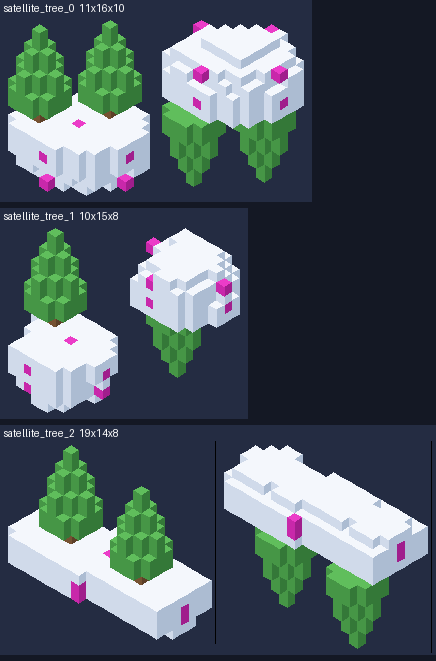
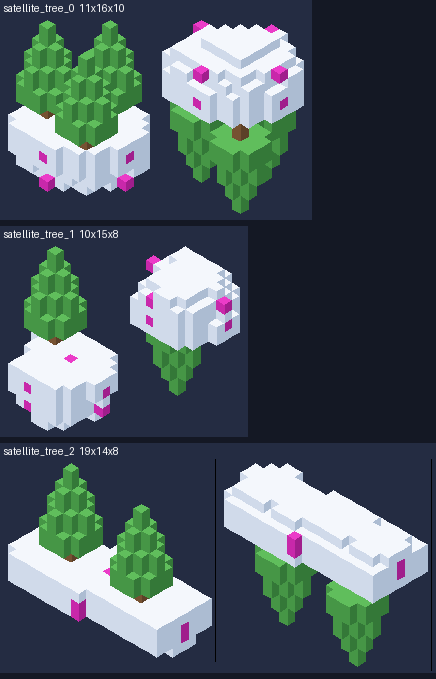
Plant sky trees on more flat cloud surfaces
Add treed filler slabs (the flat cloud in the gaps between paths) to the
filler pool alongside the plain ones, so a plain slab is placed where there
isn't headroom, and plant as many trees as fit on each treed filler and
side-attached satellite instead of a fixed one or two.

diff --git a/tools/build_clouds.py b/tools/build_clouds.py
@@ -610,8 +610,10 @@ def build_pad(short, variant, seed, mask, anchor, sx, sz, water_cols=()):
 # fillers: organic slabs that close the gaps between paths
 # ---------------------------------------------------------------------------
 
-def build_filler(variant, seed, w, d, h):
-    """Gap-filler slab: lobed oval outline, rounded bushy bottom.
+def build_filler(variant, seed, w, d, h, trees=0, prefix="filler"):
+    """Gap-filler slab: lobed oval outline, rounded bushy bottom. trees > 0 plants
+    that many sky trees on its flat top (drawn from the same pool as the plain
+    fillers, so where there's no headroom a plain slab is placed instead).
     The connector jigsaws sit one layer BELOW the top: they align with the pad
     side sockets (one under the piece floor), so the filler's flat top rises
     level with the road surface and paths/buildings read as cutting through a
@@ -672,8 +674,13 @@ def build_filler(variant, seed, w, d, h):
         bpd[str(flat_index(x, joint, z, h, d))] = jigsaw_entity(
             FILLER_NAME, "minecraft:empty", "minecraft:empty",
             CLOUD_BLOCK, x, joint, z)
-    root = make_structure(w, h, d, cells, cloud_palette(VERSION_FROM_PIECE), bpd)
-    save(os.path.join(CLOUD_DIR, f"filler_{variant}.mcstructure"), root, "")
+    H = h
+    if trees:
+        if plant_trees(cells, solid[:, top, :].copy(), None, h, rnd, trees) == 0:
+            raise ValueError(f"{prefix}_{variant}: no flat spot for a tree")
+        bpd, H = rekey_bpd(bpd, h, d, h + TREE_HEIGHT), h + TREE_HEIGHT
+    root = make_structure(w, H, d, cells, cloud_palette(VERSION_FROM_PIECE), bpd)
+    save(os.path.join(CLOUD_DIR, f"{prefix}_{variant}.mcstructure"), root, "")
 
 
 # ---------------------------------------------------------------------------
@@ -913,38 +920,43 @@ def build_satellite(variant, seed, kind, w, h, d, trees=0, prefix="satellite"):
     if trees and planted == 0:
         raise ValueError(f"{prefix}_{variant}: no flat spot for a tree")
     if planted:
-        # re-key jigsaw entities for the taller bounding box
-        new_h = h + TREE_HEIGHT
-        rekeyed = {}
-        for key, ent in bpd.items():
-            f = int(key)
-            x, y, z = f // (h * d), (f // d) % h, f % d
-            rekeyed[str(flat_index(x, y, z, new_h, d))] = ent
-        bpd, h = rekeyed, new_h
+        bpd, h = rekey_bpd(bpd, h, d, h + TREE_HEIGHT), h + TREE_HEIGHT
         dims = (w, h, d)
     root = make_structure(w, h, d, cells, cloud_palette(VERSION_FROM_PIECE), bpd)
     save(os.path.join(CLOUD_DIR, f"{prefix}_{variant}.mcstructure"), root, "")
     return dims
 
 
+def rekey_bpd(bpd, h, d, new_h):
+    """Jigsaw entities are keyed by flat index, which depends on the template
+    height; re-key them after a tree makes the bounding box taller."""
+    out = {}
+    for key, ent in bpd.items():
+        f = int(key)
+        x, y, z = f // (h * d), (f // d) % h, f % d
+        out[str(flat_index(x, y, z, new_h, d))] = ent
+    return out
+
+
 def plant_trees(cells, top_solid, conn, top_layer_h, rnd, count):
-    """Plant up to `count` sky trees on the satellite's top surface. A trunk
-    needs a mostly flat 3x3 patch of cloud and room for the 5-wide canopy, and
-    keeps clear of the up connector and of other trunks. Returns trees planted."""
+    """Plant up to `count` sky trees on a cloud's flat top surface, as many as fit.
+    A trunk needs a mostly flat 3x3 patch of cloud and room for the 5-wide
+    canopy inside the template, and keeps clear of the up connector (if any) and
+    of other trunks. Returns trees planted."""
     w, d = top_solid.shape
     top = top_layer_h - 1
     cands = []
     for x in range(2, w - 2):
         for z in range(2, d - 2):
             patch = top_solid[x - 1:x + 2, z - 1:z + 2]
-            if top_solid[x, z] and patch.sum() >= 8 and cells.get((x, top, z)) == 0 \
-                    and math.hypot(x - conn[0], z - conn[2]) >= 3:
+            if top_solid[x, z] and patch.sum() >= 7 and cells.get((x, top, z)) == 0 \
+                    and (conn is None or math.hypot(x - conn[0], z - conn[2]) >= 3):
                 edge = min(x, w - 1 - x, z, d - 1 - z)
                 cands.append((edge + rnd.uniform(0, 1.2), x, z))
     cands.sort(reverse=True)
     trunks = []
     for _, x, z in cands:
-        if all(math.hypot(x - tx, z - tz) >= 6 for tx, tz in trunks):
+        if all(math.hypot(x - tx, z - tz) >= 5 for tx, tz in trunks):
             trunks.append((x, z))
             if len(trunks) == count:
                 break
@@ -1084,7 +1096,11 @@ FILLERS = [
 ]
 # (kind, w, h, d, weight, trees) - wide, flat-topped cloudlets that carry sky trees
 TREE_SATELLITES = [
-    ("cumulus", 15, 8, 13, 3, 2), ("cumulus", 13, 7, 11, 3, 1), ("streak", 19, 5, 11, 2, 2),
+    ("cumulus", 15, 8, 13, 3, 4), ("cumulus", 13, 7, 11, 3, 3), ("streak", 19, 5, 11, 2, 4),
+]
+# (w, d, h, weight, max trees) - filler slabs big enough for a canopy, treed
+TREE_FILLERS = [
+    (15, 9, 6, 2, 2), (13, 13, 6, 2, 4), (12, 8, 5, 2, 2), (11, 7, 5, 2, 2), (9, 9, 5, 1, 1),
 ]
 ISLANDS = [(40, 14), (38, 13), (42, 14)]
 
@@ -1151,9 +1167,13 @@ def main():
 
     for v, (w, d, h, _) in enumerate(FILLERS):
         build_filler(v, seed=5000 + v * 61, w=w, d=d, h=h)
+    for v, (w, d, h, _, n) in enumerate(TREE_FILLERS):
+        build_filler(v, seed=6000 + v * 59, w=w, d=d, h=h, trees=n, prefix="filler_tree")
     write_pool("filler.json", FILLER_POOL,
                [(f"extrabiomes/sky_city/clouds/filler_{v}", f[3])
-                for v, f in enumerate(FILLERS)])
+                for v, f in enumerate(FILLERS)]
+               + [(f"extrabiomes/sky_city/clouds/filler_tree_{v}", f[3])
+                  for v, f in enumerate(TREE_FILLERS)])
     print(f"fillers: {FILLERS}")
 
     for v, (w, h) in enumerate(ISLANDS):

diff --git a/tools/preview_clouds.py b/tools/preview_clouds.py
@@ -245,7 +245,8 @@ def mock_city(out_path, seed=3):
                 fx = 0 if jx == 0 else (g.shape[0] - 1 if jx == g.shape[0] - 1 else None)
                 if fx is None:
                     continue
-                cand = [c for c in jigsaws(f) if c[1] == f.shape[1] - 2
+                jl = max(c[1] for c in jigsaws(f))
+                cand = [c for c in jigsaws(f) if c[1] == jl
                         and ((jx == 0 and c[0] == f.shape[0] - 1) or (jx != 0 and c[0] == 0))]
                 if not cand:
                     continue
@@ -277,7 +278,9 @@ def main(argv):
     treed = group("satellite_tree_")
     sheet(plain, os.path.join(out, "satellites.png"), cols=3, u=9)
     sheet(treed, os.path.join(out, "satellites_trees.png"), cols=1, u=9)
-    sheet(group("filler_"), os.path.join(out, "fillers.png"), cols=2, u=8)
+    fillers = group("filler_")
+    sheet([g for g in fillers if "tree" not in g[0]], os.path.join(out, "fillers.png"), cols=2, u=8)
+    sheet([g for g in fillers if "tree" in g[0]], os.path.join(out, "fillers_trees.png"), cols=1, u=8)
     sheet(group("island_", ISLAND_DIR)[:3], os.path.join(out, "islands.png"), cols=1, u=7)
     mock_city(os.path.join(out, "mock_city.png"), seed=3)
     print("wrote previews to", out)
